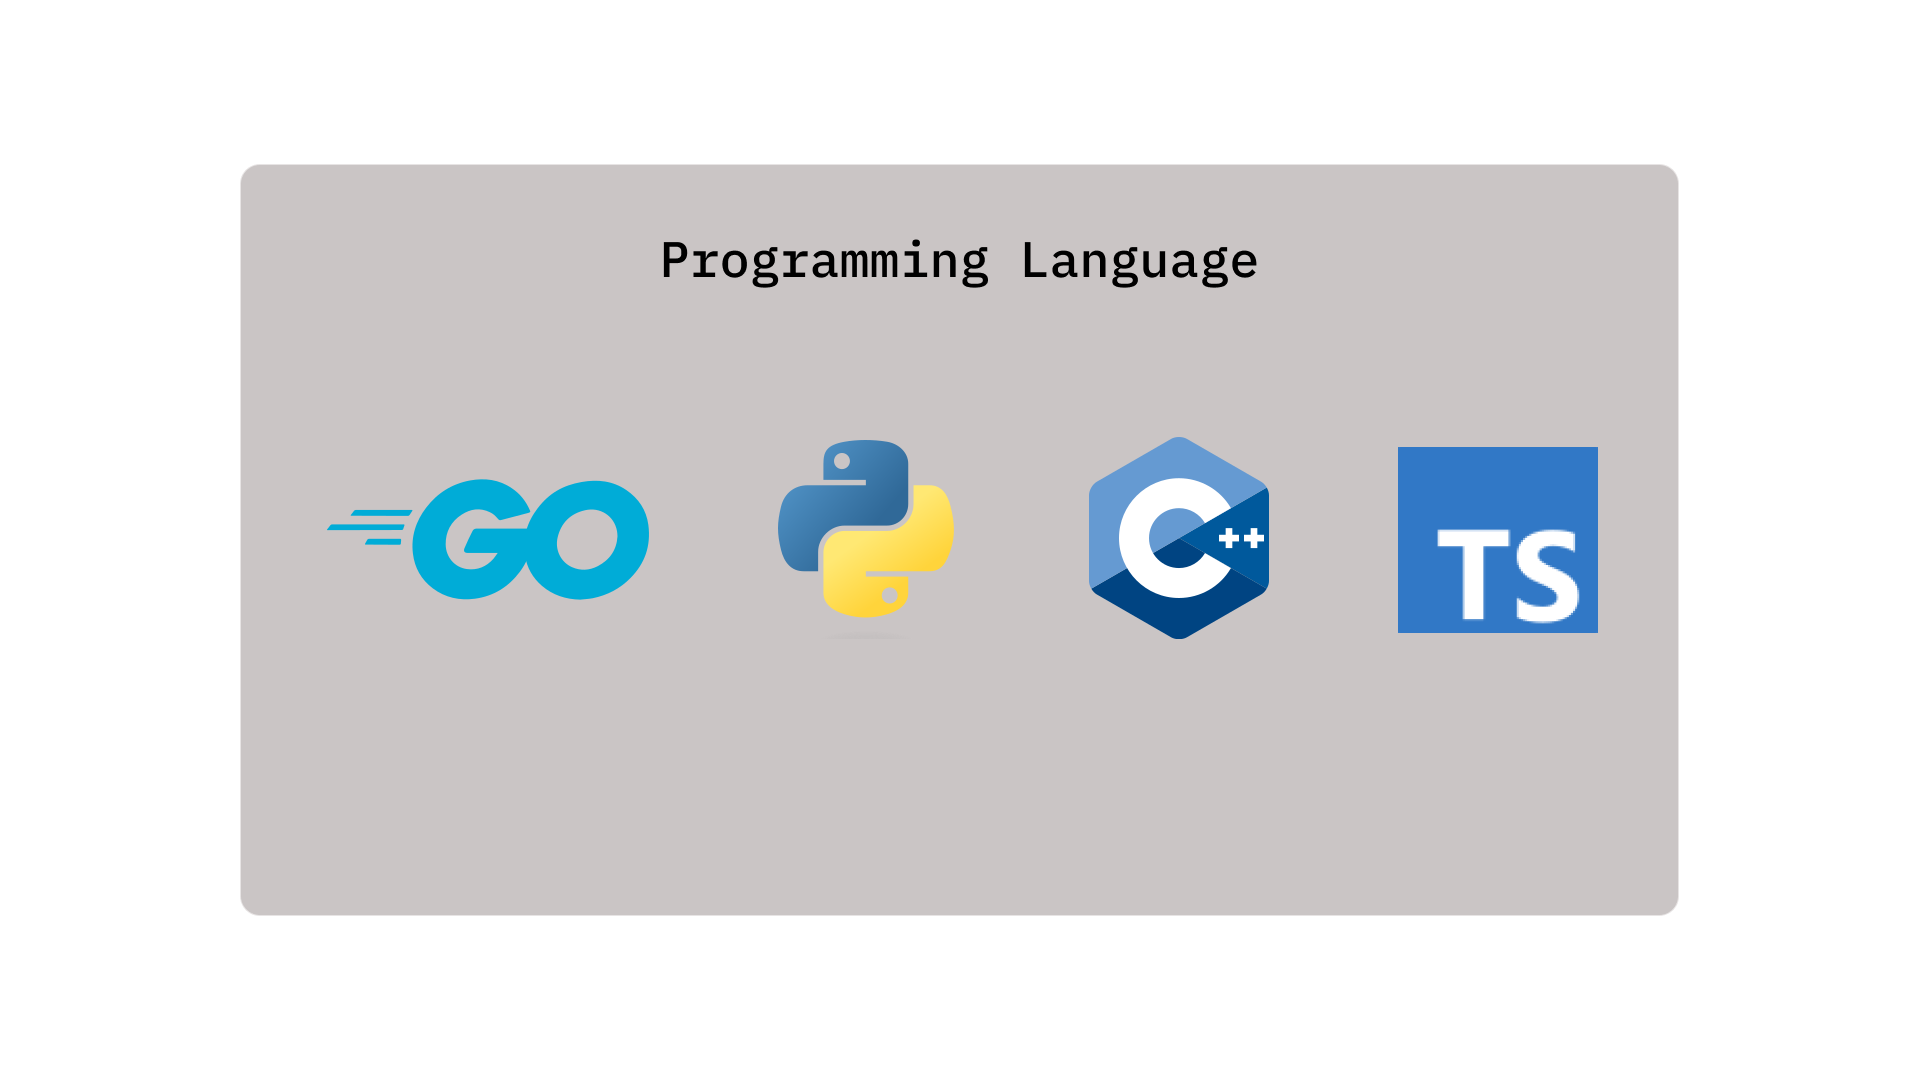
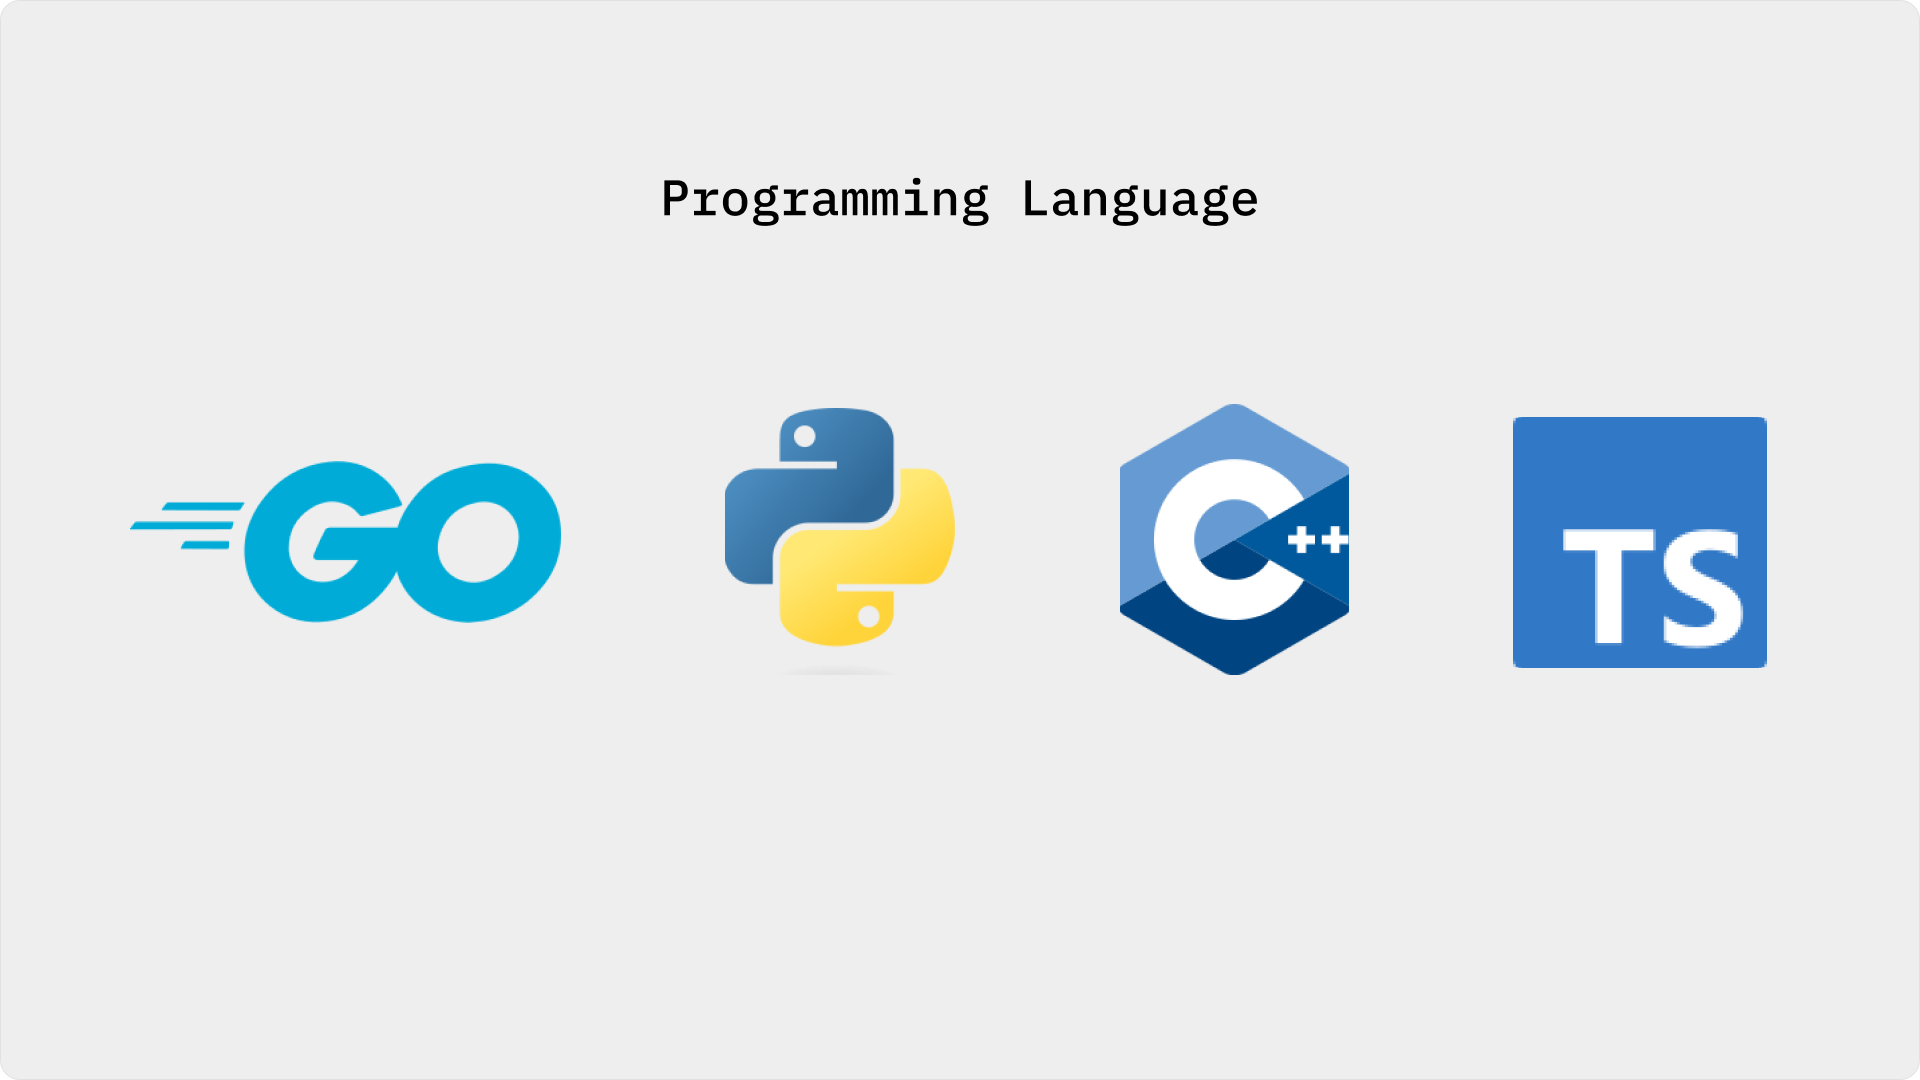
update profile

diff --git a/components/Home.vue b/components/Home.vue
@@ -56,21 +56,24 @@ export default {
 
 <template>
     <section id="home">
-        <div class="bg-slate-200 relative w-full h-dvh ">
-            <div class="absolute z-10 items-center inset-x-52 top-20">
-                <div class="w-64 bg-slate-200 h-64 rounded-full bg-yamada-light blur-xl brightness-100"></div>
-            </div>
-            <div class="flex flex-col w-full h-dvh justify-center items-center gap-5 absolute relative">
-                <h1 class="text-6xl font-mono font-bold w-full">Sugeng.cpp here !🍀</h1>
-                <h2 id="name" class="text-3xl font-mono w-full">Aka </h2>
-                <div class="absolute bottom-20 flex flex-row">
-                    <a class="text-black">Swipe down</a>
-                    <svg xmlns="http://www.w3.org/2000/svg" fill="none" viewBox="0 0 24 24" stroke="currentColor"
-                        class="h-6 w-6 ml-2">
-                        <path stroke-linecap="round" stroke-linejoin="round" stroke-width="2"
-                            d="M19 14l-7 7m0 0l-7-7m7 7V3"></path>
-                    </svg>
+        <div class="bg-slate-200 relative w-full h-dvh">
+            <div class="absolute inset-x-64 top-40">
+                <!-- <div class="w-64 bg-slate-200 h-64 rounded-full bg-yamada-light blur-3xl brightness-100 z-0"></div> -->
+                <div class="w-32 h-32 rounded-full bg-gradient-to-bl from-yamada-light to-nijika z-0 p-1">
+                    <img src="/about.png" class="w-full h-full rounded-full" />
                 </div>
+            </div>
+            <div class="flex flex-col w-full h-dvh justify-center items-center gap-5 static">
+                <h1 class="text-6xl font-mono font-bold">Sugeng.cpp here !🍀</h1>
+                <h2 id="name" class="text-3xl font-mono ">Aka </h2>
+                <div class="absolute bottom-20 flex flex-row">
+                <a class="text-black">Swipe down</a>
+                <svg xmlns="http://www.w3.org/2000/svg" fill="none" viewBox="0 0 24 24" stroke="currentColor"
+                    class="h-6 w-6 ml-2">
+                    <path stroke-linecap="round" stroke-linejoin="round" stroke-width="2"
+                        d="M19 14l-7 7m0 0l-7-7m7 7V3"></path>
+                </svg>
+            </div>
             </div>
             <!-- <div class="w-64 h-64 rounded-md opacity-30 bg-gray-800 absolute bottom-10 left-40 rotate-6 flex flex-row items-center justify-center">
                 <a class="text-3xl font-mono font-bold">
@@ -79,6 +82,8 @@ export default {
             </div>
             <div class="w-64 h-64 rounded-md opacity-10 bg-gray-700 absolute bottom-10 left-40 "></div>
             <a class="absolute bottom-60 right-20 -rotate-6 font-mono font-bolf text-3xl text-slate-300 opacity-30">include bits/stdc++.h</a> -->
+
+            
         </div>
 
     </section>

diff --git a/components/Techstack.vue b/components/Techstack.vue
@@ -1,8 +1,7 @@
 <template>
     <section id="tech" class="w-full h-dhv">
-        <div class="flex flex-col w-full h-dvh bg-slate-200 justify-center items-center gap-5">
-            <h1 class="text-6xl font-mono font-bold">Techstacks</h1>
-            <img src="/Language.png" width="1024" height="1024"/>
+        <div class="flex flex-col w-full h-dvh bg-slate-200 justify-center items-center pt-5">
+            <img src="/Language.png" width="1280" height="720"/>
         </div>
     </section>
 
